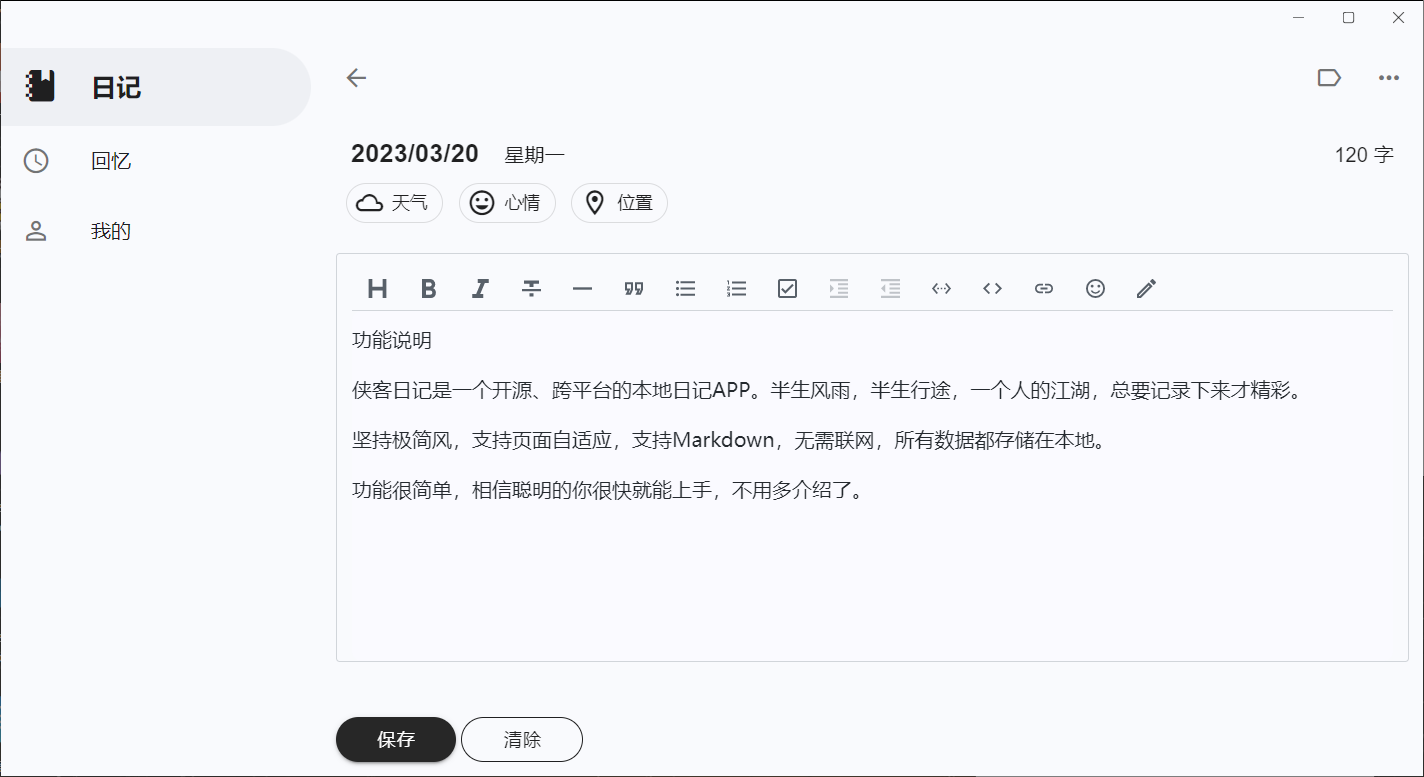
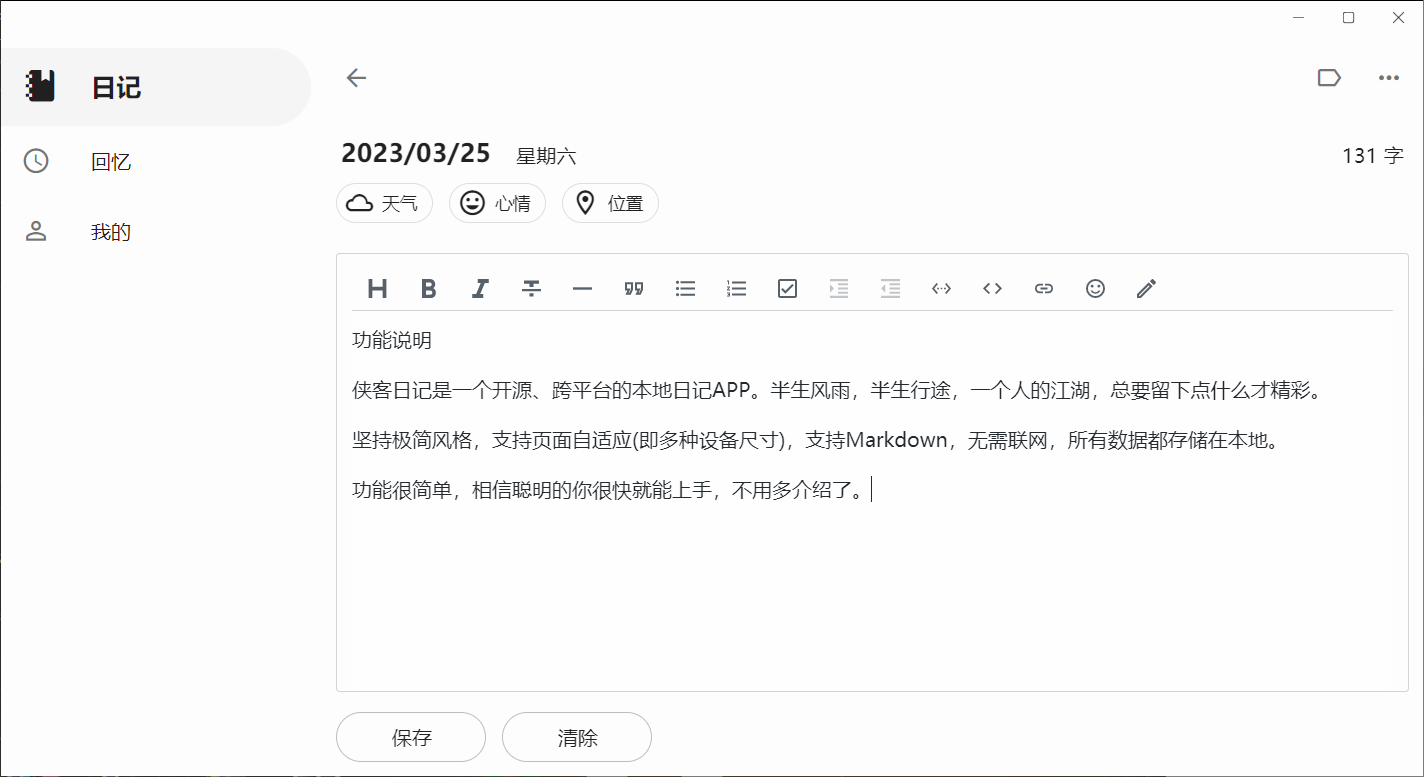
Update README

diff --git a/README.md b/README.md
@@ -2,9 +2,9 @@
 
 English | [简体中文](./README.zh-cn.md)
 
-"Swashbuckler Diary" is an open source, cross platform local diary application. Half a lifetime of wind and rain, half a lifetime of travel, one's Jianghu, always needs to be recorded to be wonderful.
+"Swashbuckler Diary" is an open source, cross platform local diary application. Half a lifetime of wind and rain, half a lifetime of travel, one's Jianghu, always needs to leave something to be wonderful.
 
-Adhere to minimalism, support page adaptation, support Markdown, no need for networking, and all data is stored locally.
+Adhere to minimalism style, support page adaptation(Refers to multiple device sizes), support Markdown, no need for networking, and all data is stored locally.
 
 ## Screenshot
 
@@ -64,7 +64,7 @@ Adhere to minimalism, support page adaptation, support Markdown, no need for net
 - macOS (macOS 11 or higher)
 - ~~Tizen (Not supported temporarily)~~
 
-> Windows 10 does not currently support changing the title bar color
+> Windows 10 and macOS does not currently support changing the title bar color
 
 ## Thanks to the following Open Source Projects
 - [.NET MAUI](https://github.com/dotnet/maui)

diff --git a/SwashbucklerDiary/wwwroot/docs/functional-description/en-US.md b/SwashbucklerDiary/wwwroot/docs/functional-description/en-US.md
@@ -1,7 +1,7 @@
 Function description
 
-Swashbuckler Diary is an open source, cross platform local diary application. Half a lifetime of wind and rain, half a lifetime of travel, one's Jianghu, always needs to be recorded to be wonderful.
+Swashbuckler Diary is an open source, cross platform local diary application. Half a lifetime of wind and rain, half a lifetime of travel, one's Jianghu, always needs to leave something to be wonderful.
 
-Adhere to minimalism, support page adaptation, support Markdown, no need for networking, and all data is stored locally.
+Adhere to minimalism style, support page adaptation(Refers to multiple device sizes), support Markdown, no need for networking, and all data is stored locally.
 
 The function is very simple. I believe that you can use it very quickly if you are smart.

diff --git a/SwashbucklerDiary/wwwroot/docs/functional-description/zh-CN.md b/SwashbucklerDiary/wwwroot/docs/functional-description/zh-CN.md
@@ -1,7 +1,7 @@
 功能说明
 
-侠客日记是一个开源、跨平台的本地日记APP。半生风雨，半生行途，一个人的江湖，总要记录下来才精彩。
+侠客日记是一个开源、跨平台的本地日记APP。半生风雨，半生行途，一个人的江湖，总要留下点什么才精彩。
 
-坚持极简风，支持页面自适应，支持Markdown，无需联网，所有数据都存储在本地。
+坚持极简风格，支持页面自适应(即多种设备尺寸)，支持Markdown，无需联网，所有数据都存储在本地。
 
 功能很简单，相信聪明的你很快就能上手，不用多介绍了。
